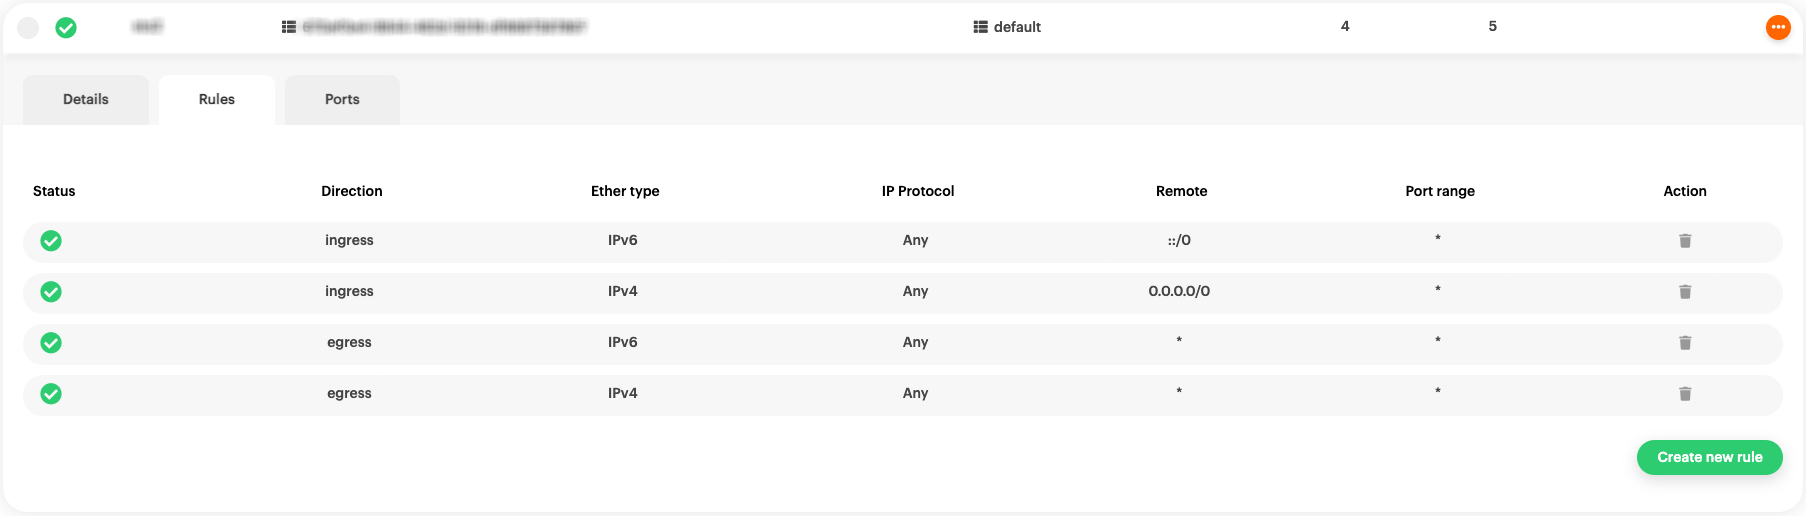
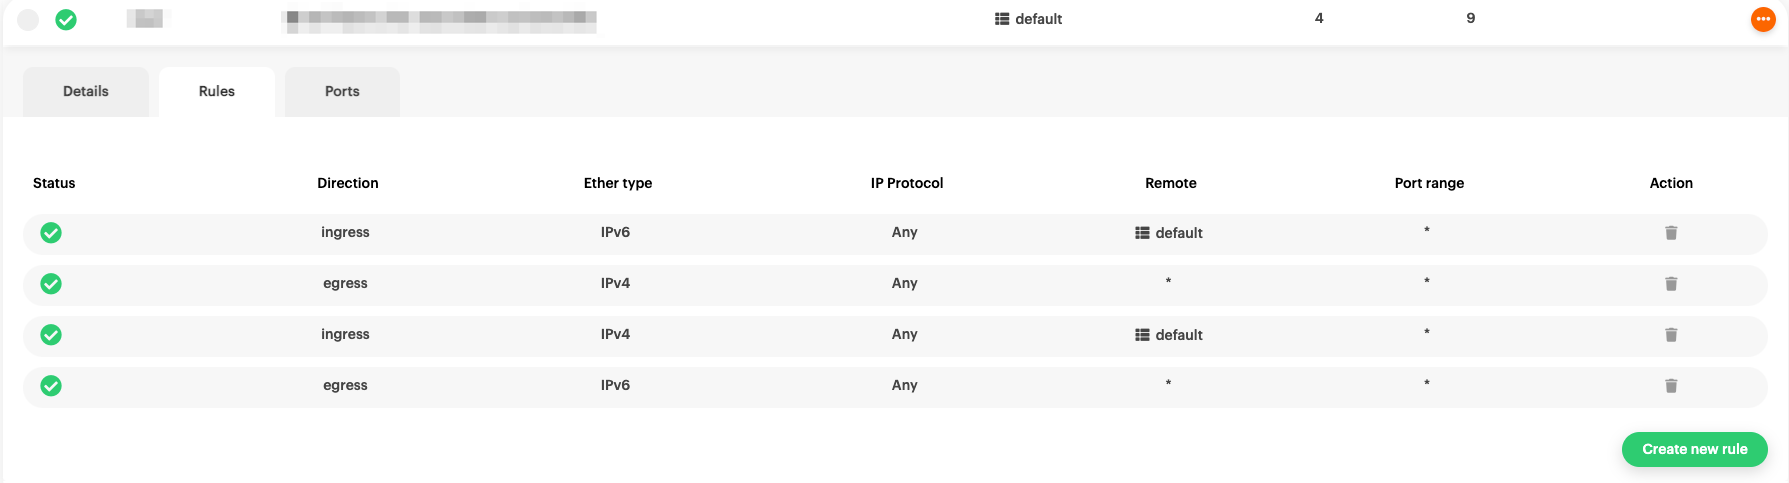
fix: Adjust "Creating security groups" page after functionality changes
The how-to page for "Creating security groups" had section about removing
"default" security group ingress rules, that allowed all traffic. This was
recently changed in CCMP, and for new accounts the default ingress rules
are only allowing traffic from the same security group.

Now, the "remove security group rules" section does not recommend removing
the rules, but only suggests that it is something that you can do, if you
for any reason want to.

Screenshots and CLI output was adjusted as well.

The screenshot showing remaining rules, after removal of default ingress
rules, had wrong set of rules removed. This was changed, and the screenshot
filename was fixed.

To handle the case for accounts created prior the change, there
is a section explaining how to adjust the permissive ingress rules in the
old default policy group. It also explains who is possibly affected.

diff --git a/docs/howto/openstack/neutron/create-security-groups.md b/docs/howto/openstack/neutron/create-security-groups.md
@@ -1,7 +1,6 @@
 # Creating security groups
 
-[By
-definition](https://docs.openstack.org/nova/latest/admin/security-groups.html),
+[By definition](https://docs.openstack.org/nova/latest/admin/security-groups.html),
 security groups are _"[...] sets of IP filter rules that are applied
 to all project instances, which define networking access to the
 instance. Group rules are project specific; project members can edit
@@ -9,14 +8,14 @@ the default rules for their group and add new rule sets."_
 
 ## Creating a security group
 
-Navigate to the [{{gui}}](https://{{gui_domain}}) start page, and log
-into your {{brand}} account. On the other hand, if you prefer to work
-with the OpenStack CLI, please do not forget to [source the RC file
-first](/howto/getting-started/enable-openstack-cli).
+Navigate to the [{{gui}}](https://{{gui_domain}}) page, and log into
+your {{brand}} account. On the other hand, if you prefer to work with
+the OpenStack CLI, please do not forget
+to [source the RC file first](/howto/getting-started/enable-openstack-cli).
 
 === "{{gui}}"
-    To create a security group click on _Security Groups_ in the
-    left-hand navigation menu:
+    To create a security group click on _Security Groups_ in the left-hand
+    side navigation menu:
 
     ![navigation-panel](assets/create-security-groups/01-navigation-panel.png)
 
@@ -31,6 +30,7 @@ first](/howto/getting-started/enable-openstack-cli).
     which region to create it, then click _create_:
 
     ![create-panel](assets/create-security-groups/03-name-creation.png)
+
 === "OpenStack CLI"
     To create a security group use the following command:
 
@@ -66,13 +66,22 @@ first](/howto/getting-started/enable-openstack-cli).
 ## Removing default ingress rules
 
 By default, a security group named `default` has been already created
-for you, allowing all traffic from any source (ingress), and to any
-destination (egress).
+for you, blocking all traffic from any source (ingress), except from
+servers and ports being in the same security group. All traffic to any
+destination (egress) is allowed by default.
+
+> For accounts created before 2022-11-16, the default security
+> group ingress rules allow all incoming traffic.
+> See [Adjust permissive default security group](/howto/openstack/neutron/create-security-groups/#adjust-permissive-default-security-group),
+> to learn how to configure this security group according to
+> our recommendations.
 
 === "{{gui}}"
-    Click on it and select the _Rules_ tab to view its rules:
+    Navigate to the security groups page, click on `default` security
+    group and select the _Rules_ tab to view its rules:
 
     ![default-rules](assets/create-security-groups/04-default-rules.png)
+
 === "OpenStack CLI"
     View the details of the `default` security group using the
     following command:
@@ -94,13 +103,13 @@ destination (egress).
     | project_id      | cb43f189f7904fb88f3bbcfa22653ab8                                               |
     | revision_number | 5                                                                              |
     | rules           | created_at='2022-09-12T15:00:59Z', direction='ingress', ethertype='IPv4',      |
-    |                 | id='5e5e9f4d-1faa-492d-91f1-c105b464072b', normalized_cidr='0.0.0.0/0',        |
-    |                 | remote_ip_prefix='0.0.0.0/0', standard_attr_id='10422245',                     |
-    |                 | updated_at='2022-09-12T15:00:59Z'                                              |
+    |                 | id='5e5e9f4d-1faa-492d-91f1-c105b464072b', protocol='0',                       |
+    |                 | remote_group_id='60776d43-a78c-4eb4-8998-cea7a04c5f9b',                        |
+    |                 | standard_attr_id='10422245', updated_at='2022-09-12T15:00:59Z'                 |
     |                 | created_at='2022-09-12T15:00:59Z', direction='ingress', ethertype='IPv6',      |
-    |                 | id='86b9413a-ad23-46c4-a35e-9306945dc63c', normalized_cidr='::/0',             |
-    |                 | remote_ip_prefix='::/0', standard_attr_id='10422248',                          |
-    |                 | updated_at='2022-09-12T15:00:59Z'                                              |
+    |                 | id='86b9413a-ad23-46c4-a35e-9306945dc63c', protocol='0',                       |
+    |                 | remote_group_id='60776d43-a78c-4eb4-8998-cea7a04c5f9b',                        |
+    |                 | standard_attr_id='10422248', updated_at='2022-09-12T15:00:59Z'                 |
     |                 | created_at='2022-09-12T15:00:57Z', direction='egress', ethertype='IPv6',       |
     |                 | id='ad4a19ef-7fab-4eba-9982-e5b109be121c', standard_attr_id='10422242',        |
     |                 | updated_at='2022-09-12T15:00:57Z'                                              |
@@ -113,21 +122,19 @@ destination (egress).
     +-----------------+--------------------------------------------------------------------------------+
     ```
 
-We recommend to either create and use a new security group other than
-the default one, **or** restrict ingress traffic to specific ports and
-sources.
-
-If you want use the default group, **remove the two ingress rules**
-that allow all incoming traffic.
+If you want to restrict the ingress rules to disallow access from
+other servers and ports in the group, you need to
+**remove the default two ingress rules.**
 
 === "{{gui}}"
     Click on the trashcan action button on the right-hand side for
     **both ingress** rules.
 
     Your `default` or newly created security group rules will now
-    looks like this:
+    look like this:
 
-    ![default-ingress-rules](assets/create-security-groups/05-default-ingress-rules.png)
+    ![default-ingress-rules](assets/create-security-groups/05-default-egress-rules.png)
+
 === "OpenStack CLI"
     To view the rules use the following command:
 
@@ -141,14 +148,14 @@ that allow all incoming traffic.
     +-----------+-------------+-----------+-----------+------------+-----------+-----------------------+----------------------+
     | ID        | IP Protocol | Ethertype | IP Range  | Port Range | Direction | Remote Security Group | Remote Address Group |
     +-----------+-------------+-----------+-----------+------------+-----------+-----------------------+----------------------+
-    | 5e5e9f4d- | None        | IPv4      | 0.0.0.0/0 |            | ingress   | None                  | None                 |
-    | 1faa-     |             |           |           |            |           |                       |                      |
+    | 5e5e9f4d- | None        | IPv4      | 0.0.0.0/0 |            | ingress   | 60776d43-a78c-4eb4-   | None                 |
+    | 1faa-     |             |           |           |            |           | 8998-cea7a04c5f9b     |                      |
     | 492d-     |             |           |           |            |           |                       |                      |
     | 91f1-     |             |           |           |            |           |                       |                      |
     | c105b4640 |             |           |           |            |           |                       |                      |
     | 72b       |             |           |           |            |           |                       |                      |
-    | 86b9413a- | None        | IPv6      | ::/0      |            | ingress   | None                  | None                 |
-    | ad23-     |             |           |           |            |           |                       |                      |
+    | 86b9413a- | None        | IPv6      | ::/0      |            | ingress   | 60776d43-a78c-4eb4-   | None                 |
+    | ad23-     |             |           |           |            |           | 8998-cea7a04c5f9b     |                      |
     | 46c4-     |             |           |           |            |           |                       |                      |
     | a35e-     |             |           |           |            |           |                       |                      |
     | 9306945dc |             |           |           |            |           |                       |                      |
@@ -225,7 +232,7 @@ server, only from specific networks.
 
 > If you don't know your IP, simply visit
 > [icanhazip.com](https://ipv4.icanhazip.com/). In this example your
-> IP is 203.0.113.58 and you want to allow SSH access from this IP
+> IP is 203.0.113.58, and if you want to allow SSH access from this IP
 > address only, enter `203.0.113.58/32` as CIDR. If you want to allow
 > SSH access from any address in that [Class C
 > subnet](https://en.wikipedia.org/wiki/Classful_network), instead
@@ -233,7 +240,7 @@ server, only from specific networks.
 
 ## Allowing Web Traffic
 
-Next create the rules that allow anyone access the server on **port
+Next create the rules that allow anyone to access the server on **port
 80** and **port 443**.
 
 === "{{gui}}"
@@ -309,3 +316,112 @@ All the rules for a simple web server are now in place.
 
 For any additional protocol or ingress rule, simply follow the same
 procedure as above.
+
+## Adjust permissive default security group
+
+If your account was created before 2022-11-16, and you didn't
+configure the `default` security group, it is most likely permissive for
+all incoming traffic. We recommend to either create and use a new
+security group, other than the default one, or restrict ingress traffic
+to specific ports and sources.
+
+=== "{{gui}}"
+    To check how your `default` security group is configured, click on it
+    and select the Rules tab to view its rules. If you have old,
+    permissive `default` group, the rules should look like this:
+
+    ![default-ingress-rules](assets/create-security-groups/10-default-permissive-rules.png)
+
+    The top two ingress rules, having `::/0` and `0.0.0.0/0` values
+    for remote access filters, mean that incoming traffic from all
+    sources is allowed.
+    
+    If you want to use the default group, remove the two ingress rules
+    that allow all incoming traffic. Click on the trashcan action
+    button on the right-hand side for **both ingress** rules.
+
+    Your `default` or newly created security group rules will now
+    look like this:
+
+    ![default-ingress-rules](assets/create-security-groups/05-default-egress-rules.png)
+
+=== "OpenStack CLI"
+    To view the rules use the following command:
+
+    ```bash
+    openstack security group rule list default
+    ```
+
+    The printout will be similar to this:
+
+    ```plain
+    +-----------+-------------+-----------+-----------+------------+-----------+-----------------------+----------------------+
+    | ID        | IP Protocol | Ethertype | IP Range  | Port Range | Direction | Remote Security Group | Remote Address Group |
+    +-----------+-------------+-----------+-----------+------------+-----------+-----------------------+----------------------+
+    | 5e5e9f4d- | None        | IPv4      | 0.0.0.0/0 |            | ingress   | None                  | None                 |
+    | 1faa-     |             |           |           |            |           |                       |                      |
+    | 492d-     |             |           |           |            |           |                       |                      |
+    | 91f1-     |             |           |           |            |           |                       |                      |
+    | c105b4640 |             |           |           |            |           |                       |                      |
+    | 72b       |             |           |           |            |           |                       |                      |
+    | 86b9413a- | None        | IPv6      | ::/0      |            | ingress   | None                  | None                 |
+    | ad23-     |             |           |           |            |           |                       |                      |
+    | 46c4-     |             |           |           |            |           |                       |                      |
+    | a35e-     |             |           |           |            |           |                       |                      |
+    | 9306945dc |             |           |           |            |           |                       |                      |
+    | 63c       |             |           |           |            |           |                       |                      |
+    | ad4a19ef- | None        | IPv6      | ::/0      |            | egress    | None                  | None                 |
+    | 7fab-     |             |           |           |            |           |                       |                      |
+    | 4eba-     |             |           |           |            |           |                       |                      |
+    | 9982-     |             |           |           |            |           |                       |                      |
+    | e5b109be1 |             |           |           |            |           |                       |                      |
+    | 21c       |             |           |           |            |           |                       |                      |
+    | f53b1a12- | None        | IPv4      | 0.0.0.0/0 |            | egress    | None                  | None                 |
+    | edbb-     |             |           |           |            |           |                       |                      |
+    | 480b-     |             |           |           |            |           |                       |                      |
+    | 910b-     |             |           |           |            |           |                       |                      |
+    | a71c48363 |             |           |           |            |           |                       |                      |
+    | 46f       |             |           |           |            |           |                       |                      |
+    +-----------+-------------+-----------+-----------+------------+-----------+-----------------------+----------------------+
+    ```
+
+    If the ingress rules have `::/0` and `0.0.0.0/0` values
+    in `IP Range` column, and `None` in the `Remote Security Group`,
+    then incoming traffic from any source is allowed.
+
+    The IDs of the two ingress rules, one for IPv4 traffic and one for
+    IPv6, are: `5e5e9f4d-1faa-492d-91f1-c105b464072b` and
+    `86b9413a-ad23-46c4-a35e-9306945dc63c` respectively.
+
+    Delete them by using the following command:
+
+    ```bash
+    openstack security group rule delete \
+      5e5e9f4d-1faa-492d-91f1-c105b464072b 86b9413a-ad23-46c4-a35e-9306945dc63c
+    ```
+    Print the rules again:
+
+    ```bash
+    openstack security group rule list default
+    ```
+
+    Now the remaining rules are only the egress ones.
+
+    ```plain
+    +-----------+-------------+-----------+-----------+------------+-----------+-----------------------+----------------------+
+    | ID        | IP Protocol | Ethertype | IP Range  | Port Range | Direction | Remote Security Group | Remote Address Group |
+    +-----------+-------------+-----------+-----------+------------+-----------+-----------------------+----------------------+
+    | ad4a19ef- | None        | IPv6      | ::/0      |            | egress    | None                  | None                 |
+    | 7fab-     |             |           |           |            |           |                       |                      |
+    | 4eba-     |             |           |           |            |           |                       |                      |
+    | 9982-     |             |           |           |            |           |                       |                      |
+    | e5b109be1 |             |           |           |            |           |                       |                      |
+    | 21c       |             |           |           |            |           |                       |                      |
+    | f53b1a12- | None        | IPv4      | 0.0.0.0/0 |            | egress    | None                  | None                 |
+    | edbb-     |             |           |           |            |           |                       |                      |
+    | 480b-     |             |           |           |            |           |                       |                      |
+    | 910b-     |             |           |           |            |           |                       |                      |
+    | a71c48363 |             |           |           |            |           |                       |                      |
+    | 46f       |             |           |           |            |           |                       |                      |
+    +-----------+-------------+-----------+-----------+------------+-----------+-----------------------+----------------------+
+    ```
